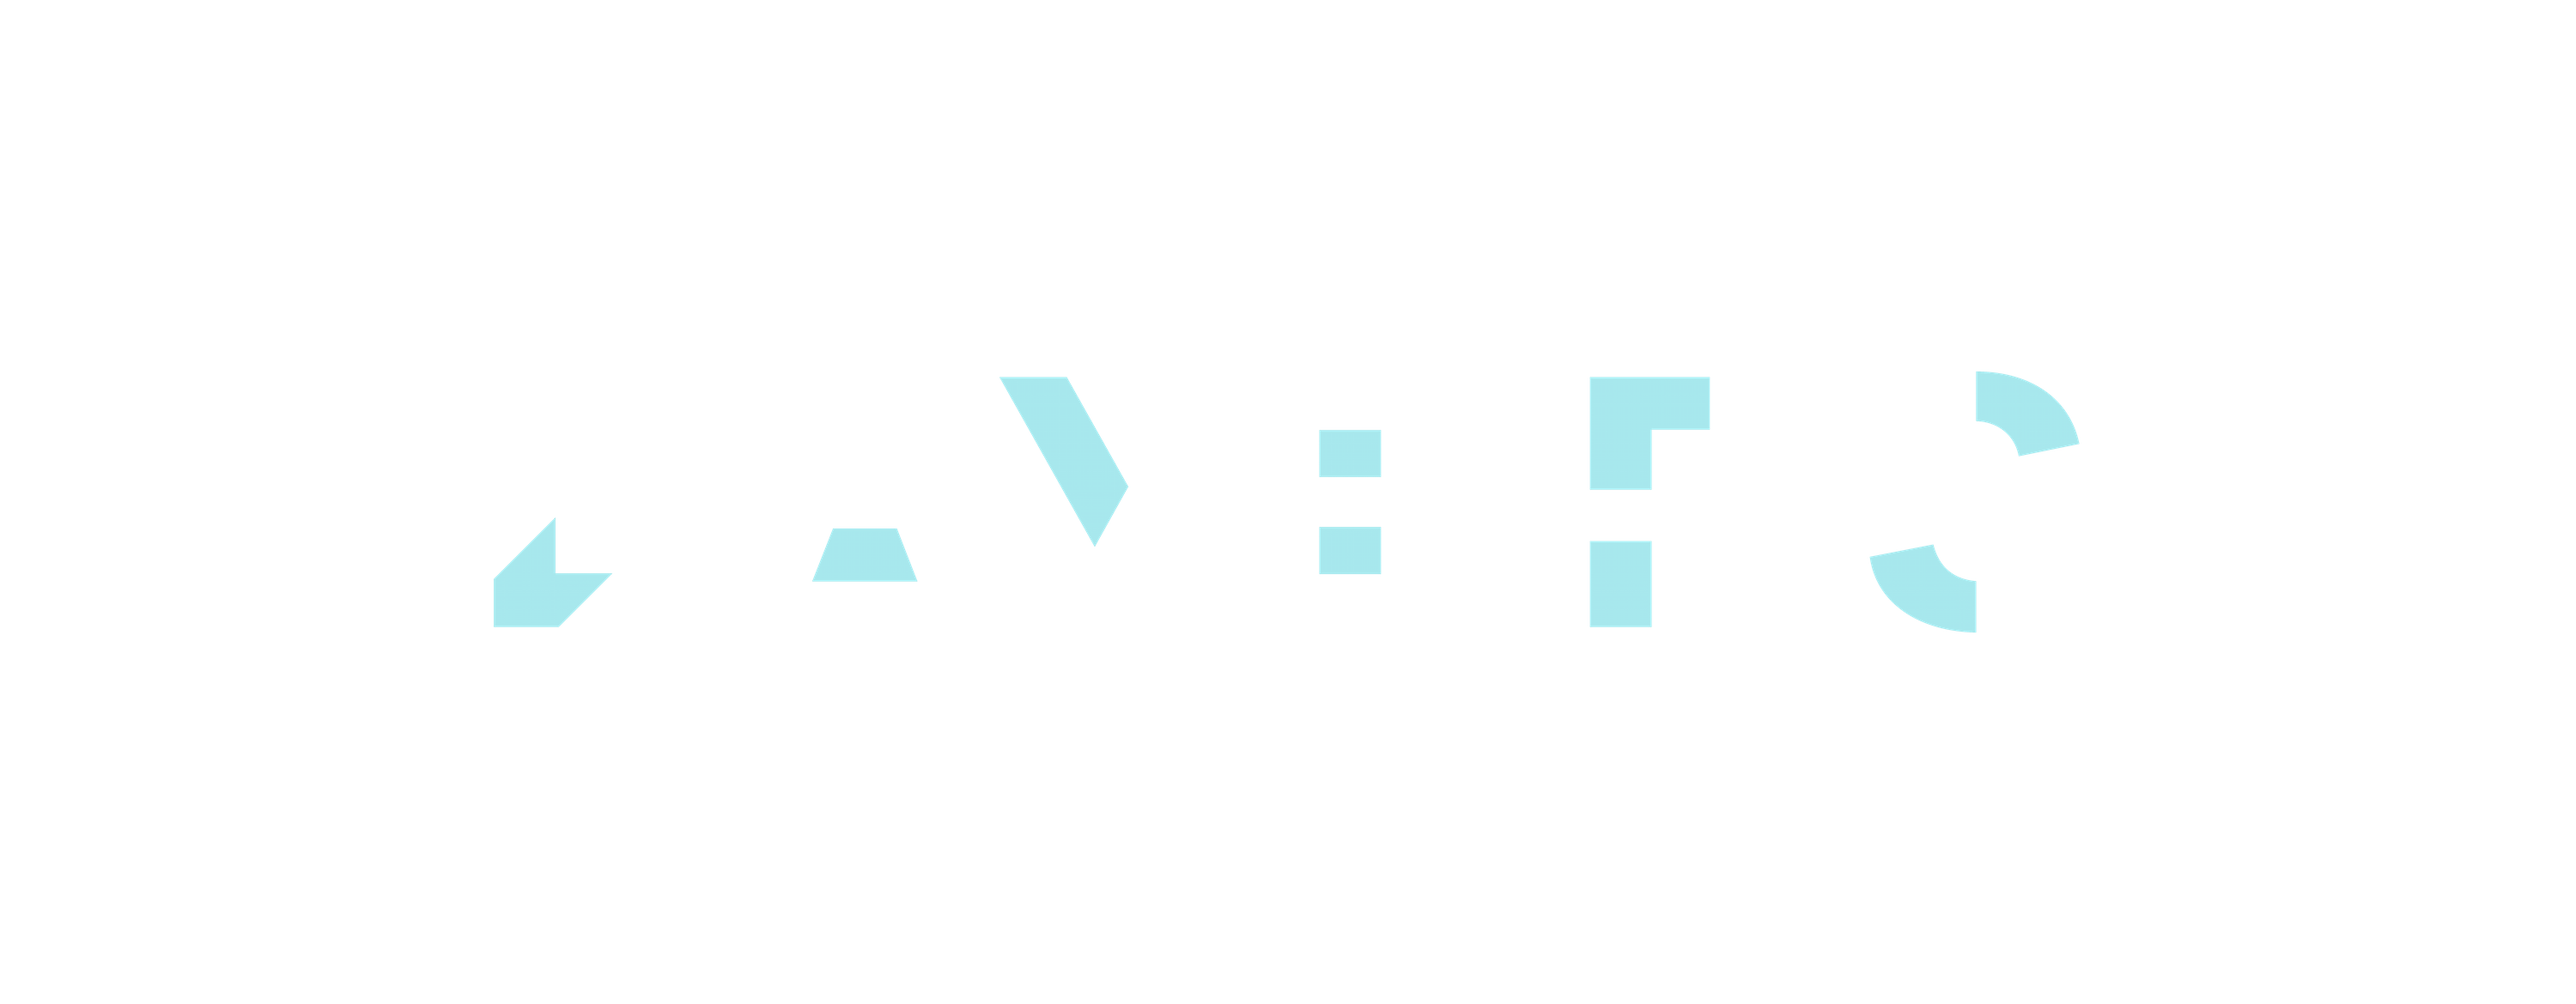
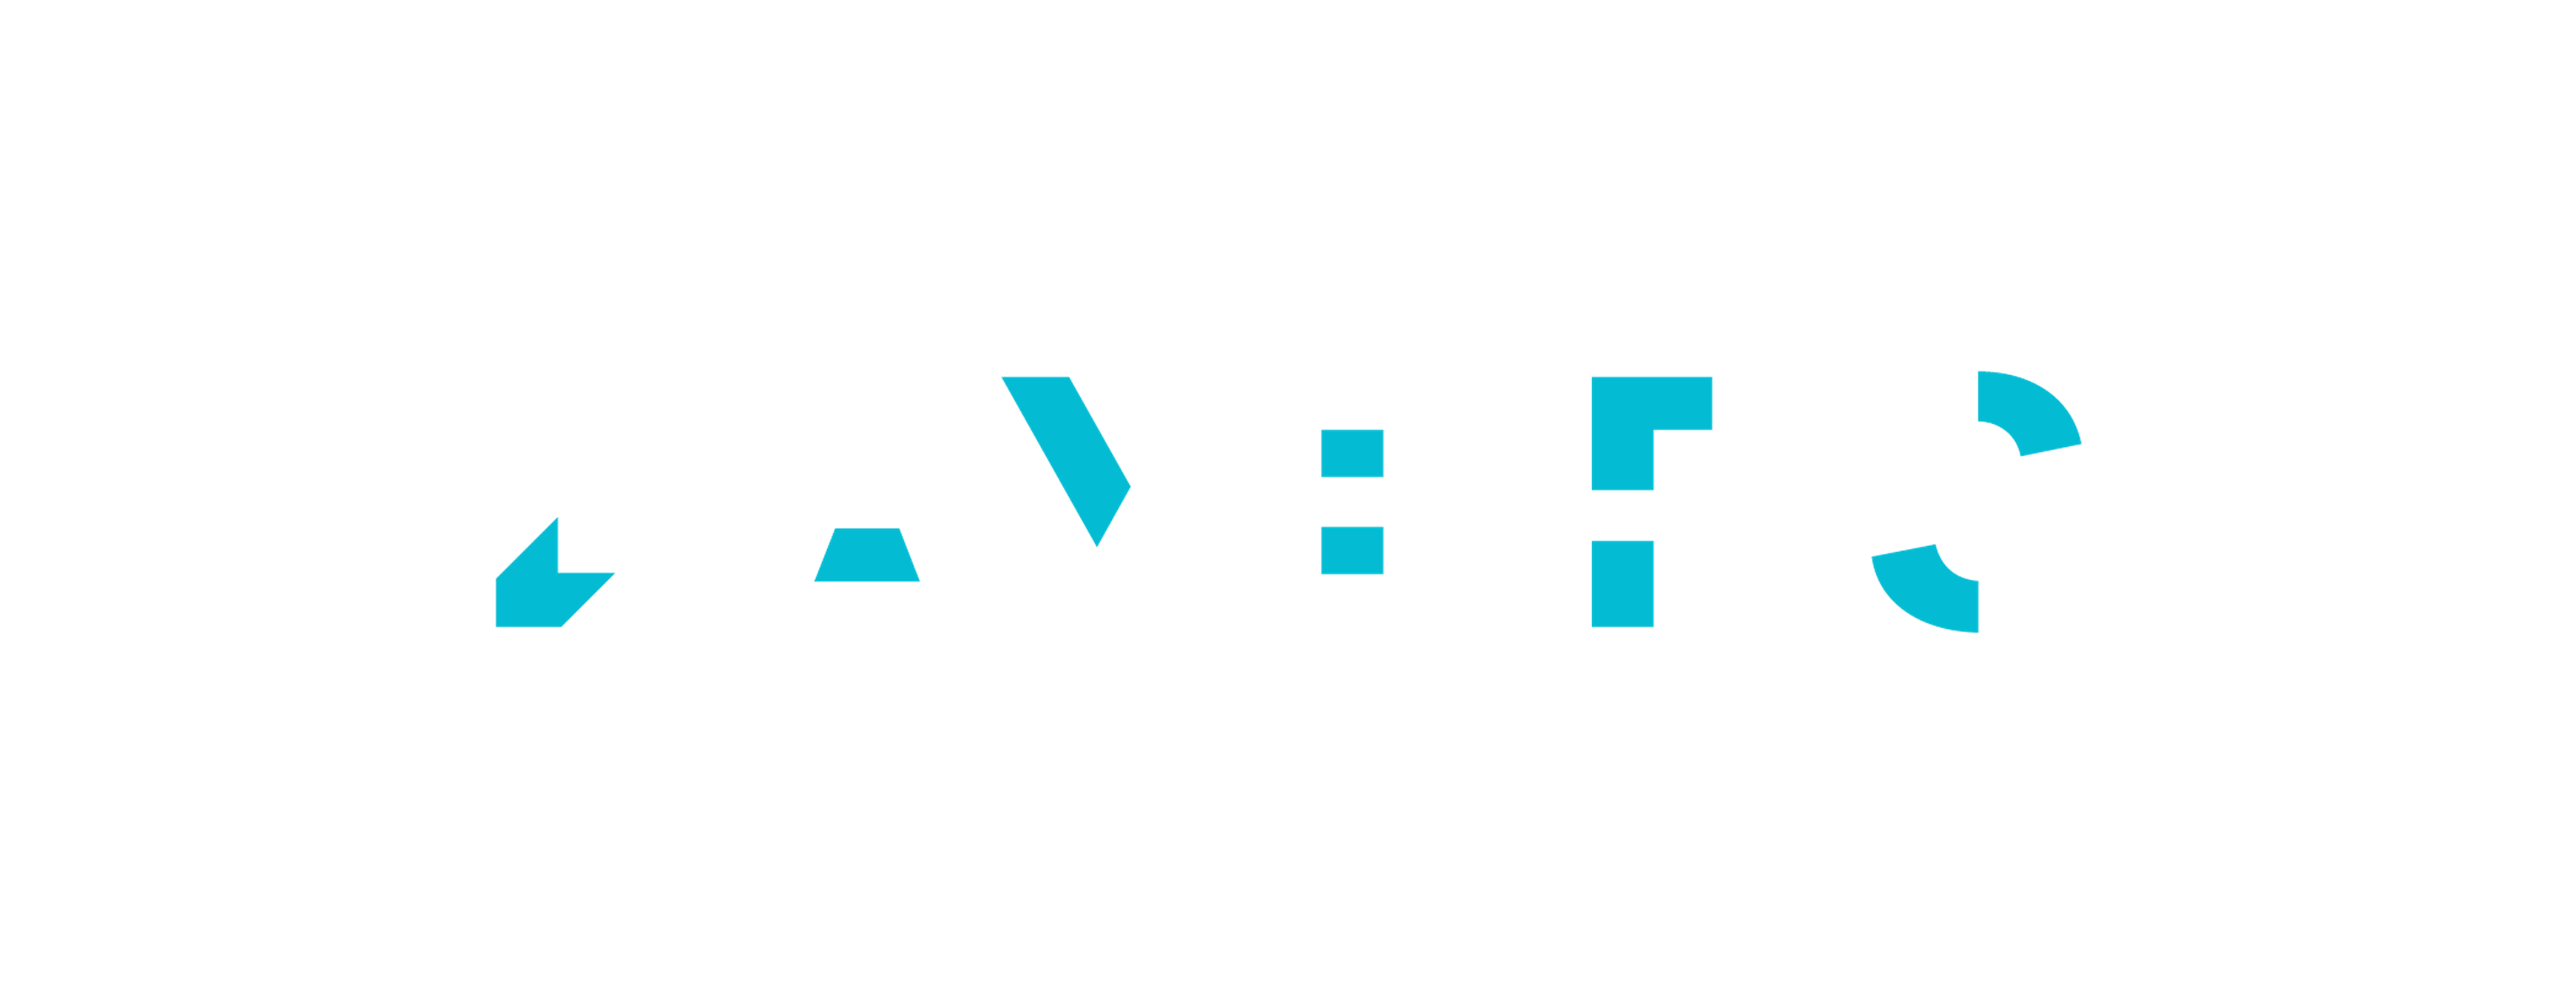
COMMIT
wefa

diff --git a/design/css/default.css b/design/css/default.css
@@ -11,9 +11,6 @@
 }
 
 
-.active{
-	display: none;
-}
 
 /* ------------- Layout Container styles -----------------*/
 
@@ -180,6 +177,10 @@ section{
 	width: 100%;
 	text-align: center;
 	margin: auto;
+}
+
+#darkblue{
+	opacity: 0.33;
 }
 
 /*--------------------------------------Description-----------------------------*/
@@ -351,6 +352,8 @@ section{
 
 #whenwhere{
 	margin: auto;
+		background-color: #676969;
+	overflow: hidden;
 	height: 500px;
 }
 
@@ -370,12 +373,15 @@ section{
 
 
 
+
+
+
 /*-----------------------------Gallery-------------------------------*/
-parallax4{
+#parallax4{
 	width: 100%;
 	height: auto;
 	position: relative;
-	margin-top: -40%;
+	margin-top: 10%;
 }
 
 /* title */
@@ -387,7 +393,7 @@ parallax4{
 	float: left;
 	margin: auto;
 	margin-top: 0;
-	margin-bottom: 20%;
+	margin-bottom: 0%;
 }
 
 
@@ -396,24 +402,28 @@ parallax4{
 	width: 30%;
 	margin-left: 0;
 	float: left;
+	overflow: hidden;
 }
 
 #bar1{
 	width: 30%;
-	height: 10%;
+	height: 30%;
 	position: absolute;
 	margin-left: 0px;
+	top: 22%;
 	float: left;
 	z-index: 3;
+	overflow: hidden;
 }
 
 #finestripes1{
 	width: 10%;
-	height: 40%;
+	height: 100%;
 	position: absolute;
-	margin-top: -5%;
+	top: 0%;
 	float: left;
 	z-index: 4;
+	overflow: hidden;
 }
 
 
@@ -421,26 +431,30 @@ parallax4{
 	width: 30%;
 	float: left;
 	margin-left: -5%;
+	overflow: hidden;
 }
 
 #bar2{
 	width: 30%;
-	height: 10%;
+	height: 30%;
 	position: absolute;
 	margin-left: 75%;
+	top: 22%;
 	float: left;
 	z-index: 3;
+	overflow: hidden;
 
 }
 
 #finestripes2{
 	width: 10%;
-	height: 40%;
+	height: 100%;
 	float: left;
 	position: absolute;
 	margin-left: 95%;
-	margin-top: -5%;
+	top: 0%;
 	z-index: 4;
+	overflow: hidden;
 
 }
 
@@ -470,6 +484,7 @@ parallax4{
 	background: #a7e8ed;
 	z-index: 1;
 	margin: auto;
+	overflow: hidden;
 }
 
 #title3{
@@ -481,23 +496,15 @@ parallax4{
 	margin-left: 25%;
 	float: left;
 	z-index: 4;
-	margin-top: -37.5%;
+	overflow: hidden;
 }
 
-#overlay3{
-	width: 100%;
-	height: 30%;
-	background: #E3E9E9;
-	opacity: 0.6;
-	position: relative;
-	margin-top: -13%;
-}
 
 
 #multiholder2{
 	width: 100%;
 	margin: auto;
-	margin-top: -7%;
+	margin-bottom: 5%;
 
 }
 
@@ -602,7 +609,7 @@ parallax4{
 
 /*-----------------------------------Responsive----------------------------------*/
 
-@media (-webkit-min-device-pixel-ratio: 2) and (max-device-width: 480px) {
+@media all and (max-width: 768px) {
 
 .window{
 	height: 100vh;
@@ -610,7 +617,7 @@ parallax4{
 
 .bodieseverywhere{
 	font-family: galano2;
-	font-size: 10pt;
+	font-size: 14pt;
 	line-height: 1.5em;
 	letter-spacing: 0.08em;
 }
@@ -625,18 +632,18 @@ parallax4{
 }
 
 .subhead2{
-	font-size: 12pt;
-	line-height: 14pt;
+	font-size: 16pt;
+	line-height: 18pt;
 }
 
 .subhead3{
-	font-size: 10pt;
-	line-height: 12pt;
+	font-size: 16pt;
+	line-height: 18pt;
 }
 
 .subhead4{
-	font-size: 8pt;
-	line-height: 10pt;
+	font-size: 16pt;
+	line-height: 18pt;
 }
 
 /*-------header-------*/

diff --git a/design/index.html b/design/index.html
@@ -36,7 +36,7 @@
  				data-origin-y="0.5">
 			  	<li class="layer" data-depth="0.00"><img class="bam" src="images/Layers6.png"></li>
 			  	<li class="layer" data-depth="0.80"><img class="bam" src="images/Layers5.png"></li>
-			  	<li class="layer" data-depth="0.20"><img class="bam" src="images/Layers4.png"></li>
+			  	<li class="layer" data-depth="0.20"><img id ="darkblue" class="bam" src="images/Layers4.png"></li>
 		  		<li class="layer" data-depth="0.40"><img class="bam" src="images/Layers3.png"></li>
 		  		<li class="layer" data-depth="0.60"><img class="bam" src="images/Layers2.png"></li>
 		  		<li class="layer" data-depth="0.00"><img class="bam" src="images/Layers1.png"></li>
@@ -88,11 +88,11 @@
 		<section>
 			<div id="parallax3" >
 			
-				<div id="whenwhere" class="darkgrey">
+				<div id="whenwhere">
 					
-					<p id="title2" class="header title">Event Info</p>
-					
+					<p id="title2" class="header title">Event Info</p>	
 					<div id="events" class="multiholder">
+				
 						<div id="show" class="col details1">
 							<p class="subhead">
 							Portfolio Show
@@ -137,7 +137,6 @@
 				
 			</div> <!--parallax3-->
 		</section>
-<!-----buffer---->
 
 
 		
@@ -146,7 +145,7 @@
 			<div id="parallax4" class="window restrict">
 				<div id="waitwho" class="center">
 					<div id="titlebox">
-					
+						<div><p id="title3" class="header center">The Designers</p></div>
 					</div>
 					
 					<div id="overlay3"></div>
@@ -166,7 +165,7 @@
 
 				
 				</div> <!---waitwho-->
-				<div><p id="title3" class="header center">The Designers</p></div>
+			
 				
 		<!--------------the pictures-------------->
 				
@@ -342,8 +341,9 @@
 							<br>University of Minnesota East Bank
 						</p>
 						<p class="subhead2" id="te2">Thesis Exhibition Opening
-						<br>December 11, 2015</p>
-						<p class="subhead3">6:00 to 9:00 PM</p>
+						</p>
+						<p class="subhead3">December 11, 2015
+						<br>6:00 to 9:00 PM</p>
 						<p class="subhead4">Larson Art Gallery, St. Paul Student Center
 							<br>University of Minnesota St. Paul Campus
 						</p>

diff --git a/design/js/script.js b/design/js/script.js
@@ -42,7 +42,16 @@ $(document).ready(function() {
 					
 	new ScrollMagic.Scene({triggerElement: "#parallax3"})
 					.setTween("#parallax3 > div", {y: "10%", ease: Linear.easeNone})
-					.addTo(controller);		
+					.addTo(controller);	
+					
+		$(window).on("resize", function(e) {
+	  if ($(window).width() < 768 && controller.enabled()) {
+		controller.enabled(false);
+	  } else if (!controller.enabled()) {
+		controller.enabled(true);
+	  }
+	});				
+						
 	});
 	
 //responsive
